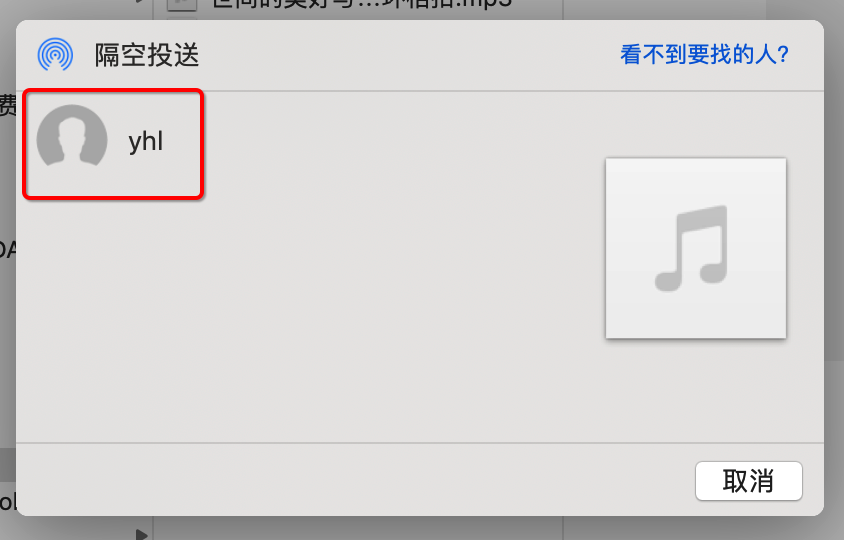
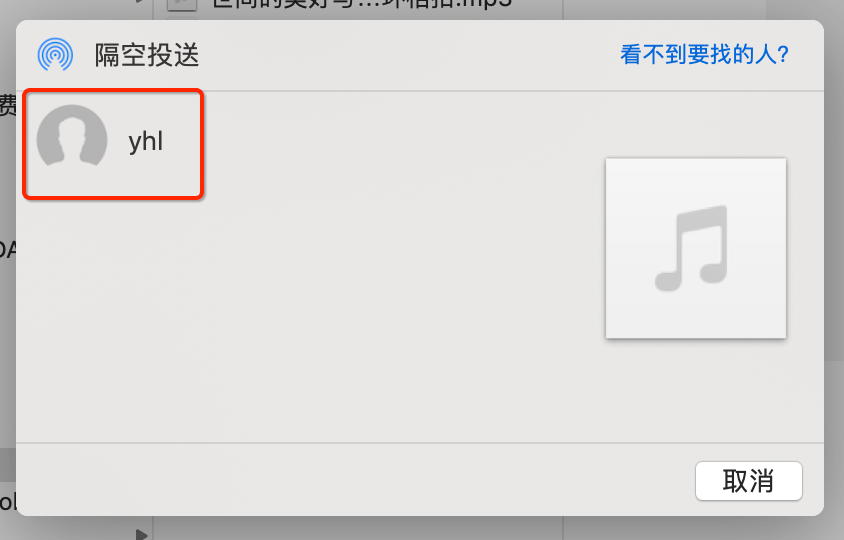
share界面

Changed region(s): [[0.0308, 0.1481, 0.2464, 0.3852], [0.7393, 0.0889, 0.9242, 0.1185], [0.0, 0.1778, 0.0308, 0.3556]]

diff --git a/VideoPoster/ShareTeach/index.html b/VideoPoster/ShareTeach/index.html
@@ -1,0 +1,22 @@
+<!DOCTYPE html>
+<html lang="en">
+<head>
+    <meta charset="UTF-8">
+    <title>AirDrop</title>
+    <link rel="stylesheet" href="../css/styleCss.css">
+</head>
+<body>
+<p class="normalText">
+    1.从其他 App 找到分享音频文件的按钮
+</p>
+<div class="center">
+    <img src="../imgs/share/share_1.jpg">
+</div>
+<p class="normalText">
+    2.选择 拷贝到 VideoPoster
+</p>
+<div class="center">
+    <img src="../imgs/share/share_2.jpg">
+</div>
+
+</body>

diff --git a/VideoPoster/AirDropTeach/index.html b/VideoPoster/AirDropTeach/index.html
@@ -2,7 +2,7 @@
 <html lang="en">
 <head>
     <meta charset="UTF-8">
-    <title>Title</title>
+    <title>AirDrop</title>
     <link rel="stylesheet" href="../css/styleCss.css">
 </head>
 <body>
